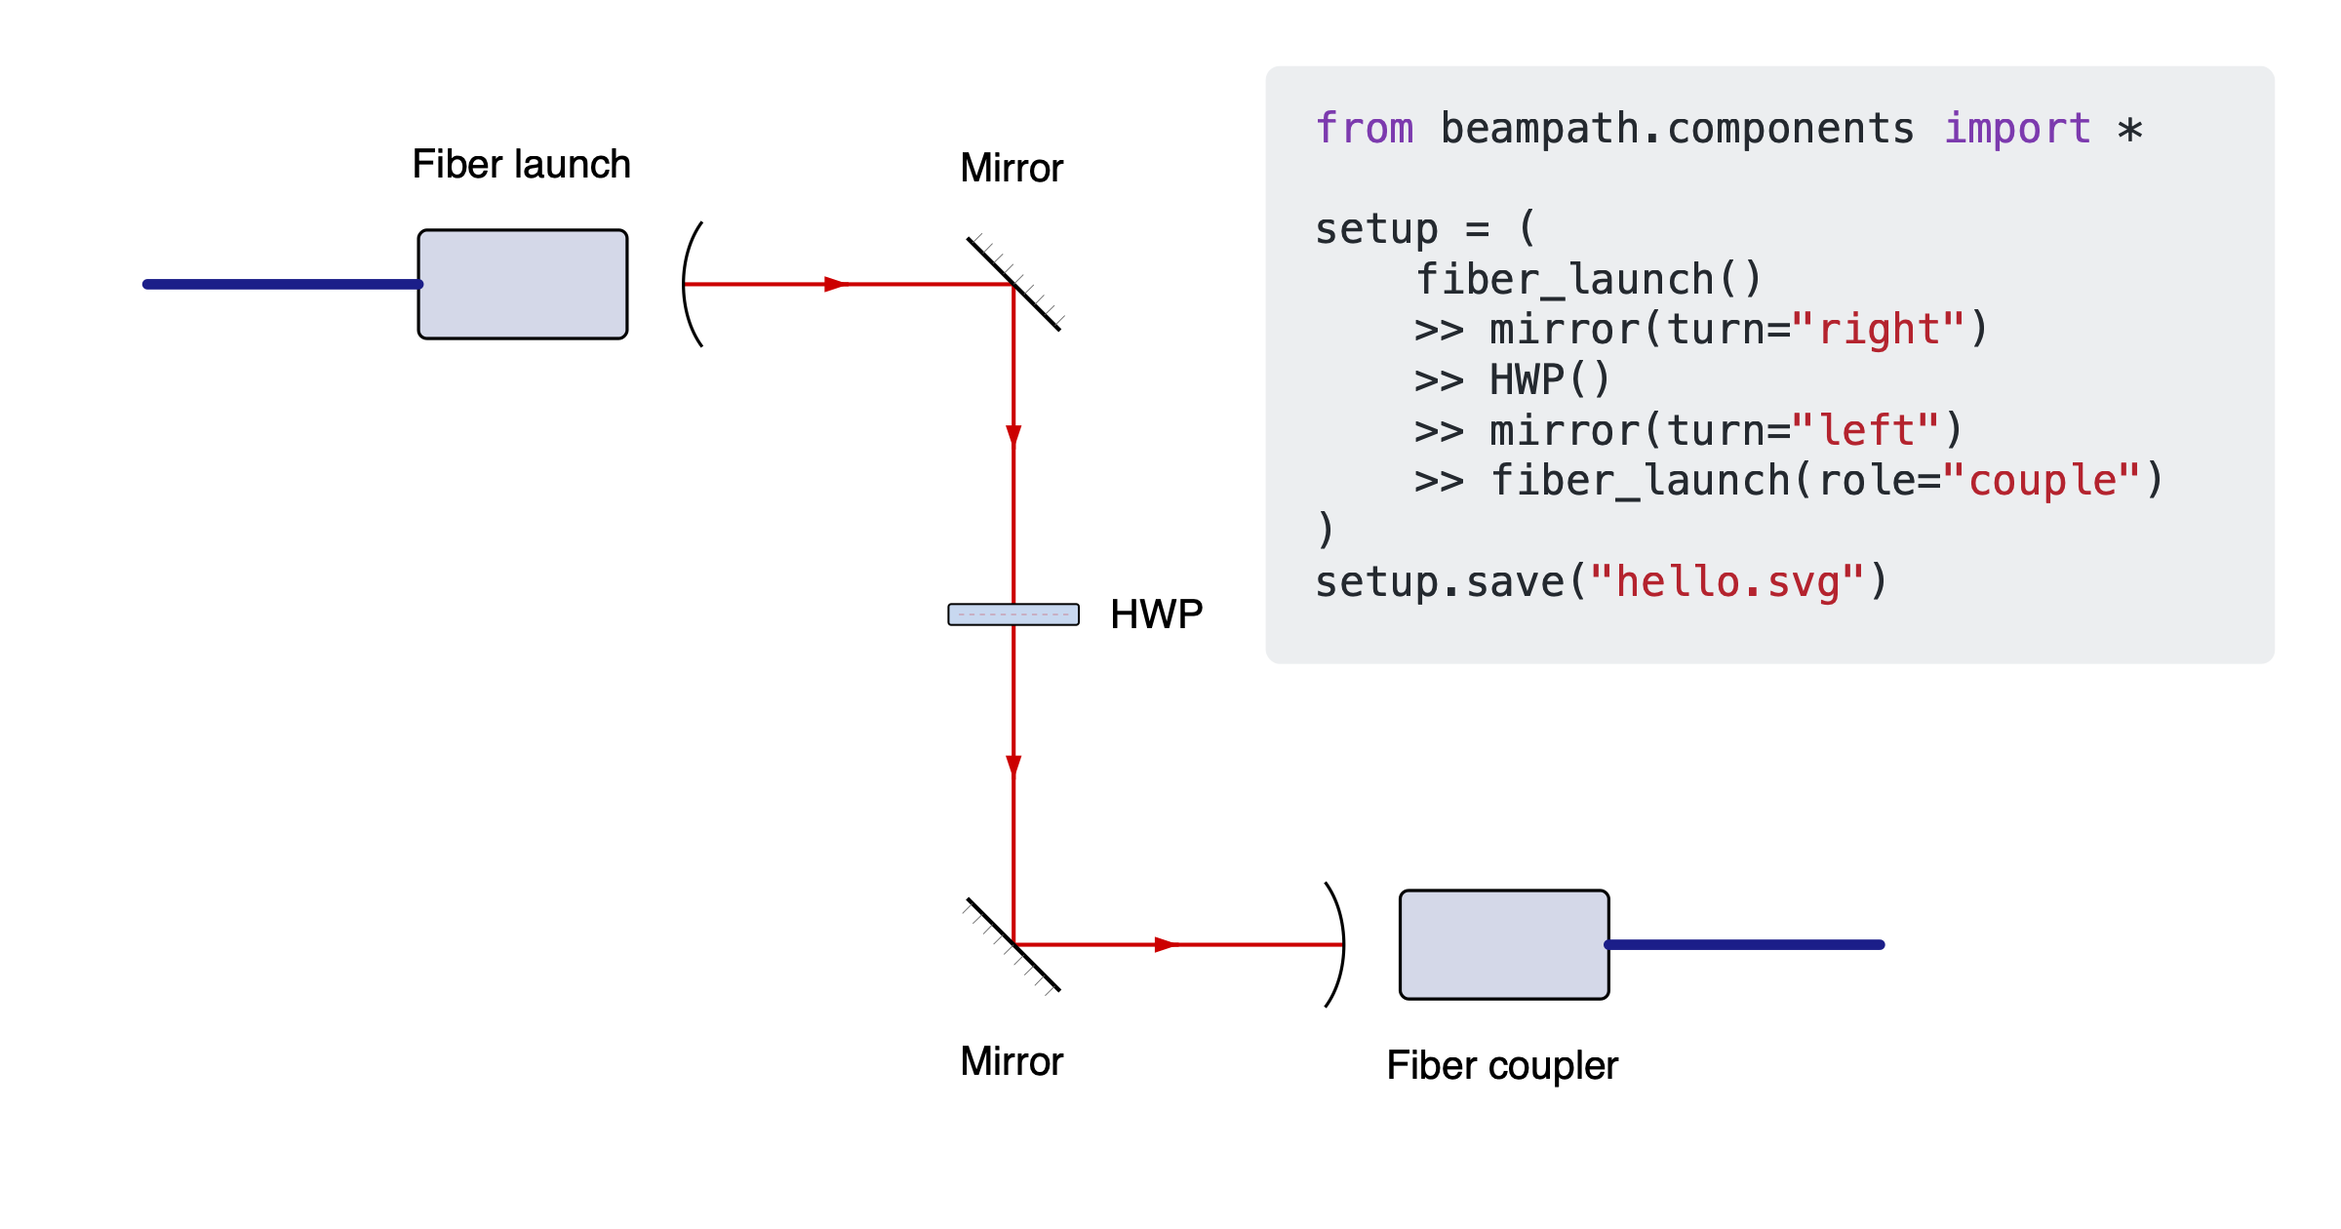
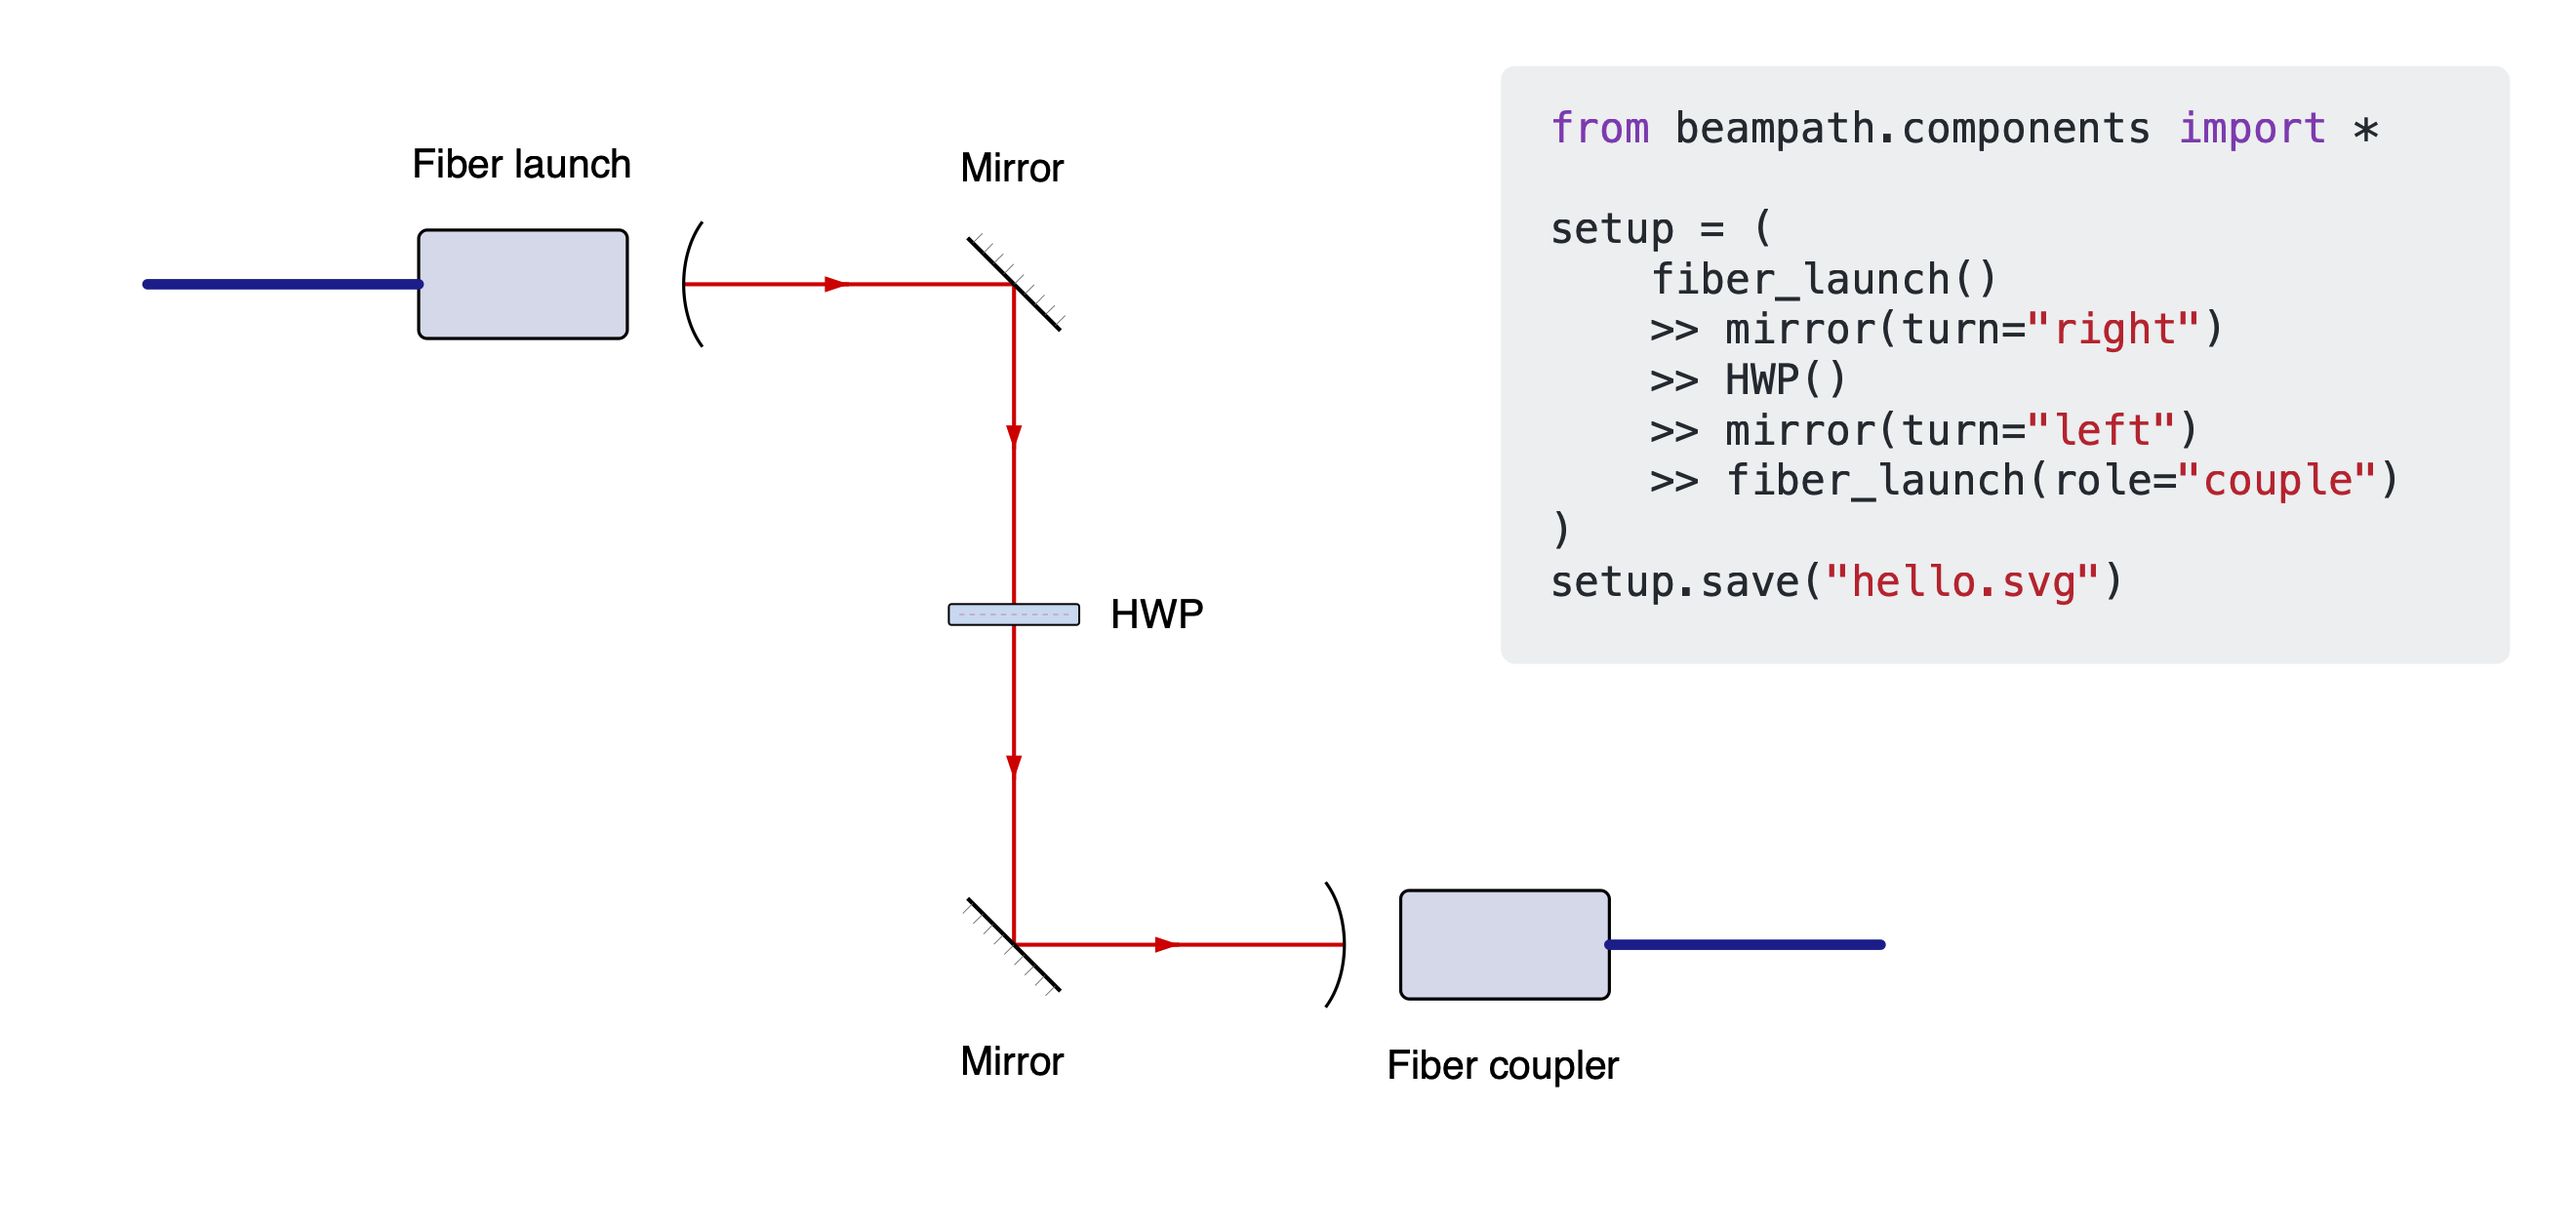
Move hello code inset right and widen social canvas

diff --git a/scripts/render_hello_social.py b/scripts/render_hello_social.py
@@ -16,7 +16,7 @@ from beampath.render import _png_metadata, element, number, tag
 
 
 PROJECT = Path(__file__).resolve().parents[1]
-WIDTH, HEIGHT = 2400, 1260
+WIDTH, HEIGHT = 2640, 1260
 
 
 def build_social_svg():
@@ -46,7 +46,7 @@ def build_social_svg():
         "with the Python code that creates the diagram in the upper right."
     )
 
-    panel_x, panel_y = 335, y + 38
+    panel_x, panel_y = 470, y + 38
     panel_width, panel_height = x + width - panel_x - 38, 344
     inset = element(root, "g", id="sample-code-inset")
     element(inset, "rect", x=number(panel_x), y=number(panel_y),
